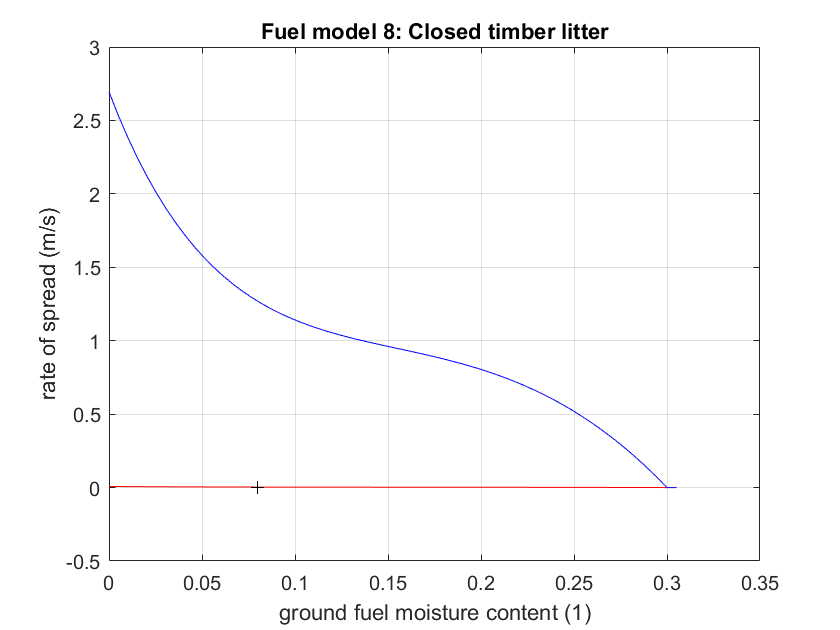
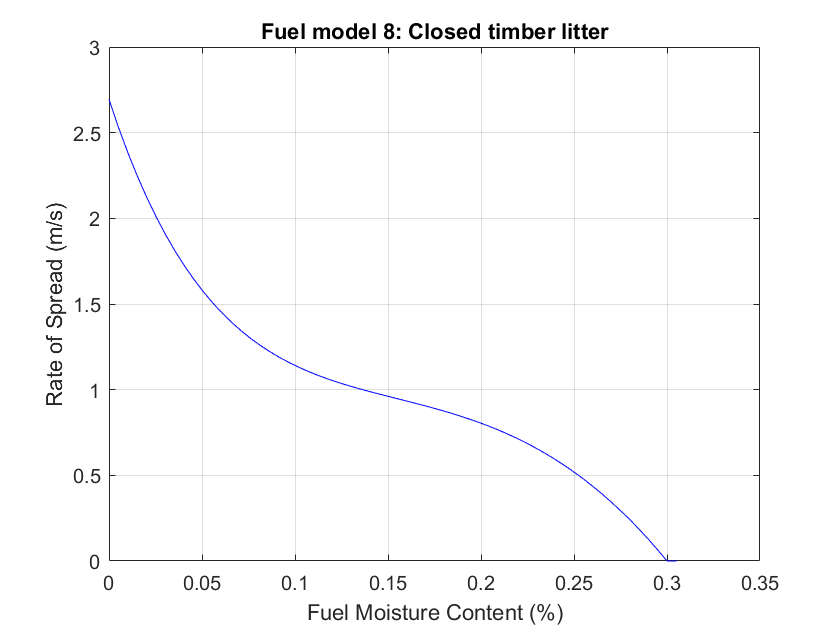
Update ROS images from matlab

diff --git a/src/fmda_models.py b/src/fmda_models.py
@@ -8,7 +8,7 @@ from sklearn.linear_model import LinearRegression
 from sklearn.ensemble import RandomForestRegressor
 from xgboost import XGBRegressor
 from abc import ABC, abstractmethod
-from metrics import ros
+from metrics import ros_0wind, ros_3wind
 import matplotlib.pyplot as plt
 
 
@@ -39,7 +39,7 @@ class MLModel(ABC):
     def eval(self, X_test, y_test):
         preds = self.predict(X_test)
         rmse = np.sqrt(mean_squared_error(y_test, preds))
-        rmse_ros = np.sqrt(mean_squared_error(ros(y_test), ros(preds)))
+        rmse_ros = np.sqrt(mean_squared_error(ros_3wind(y_test), ros_3wind(preds)))
         print(f"Test RMSE: {rmse}")
         print(f"Test RMSE (ROS): {rmse_ros}")
         return rmse, rmse_ros
